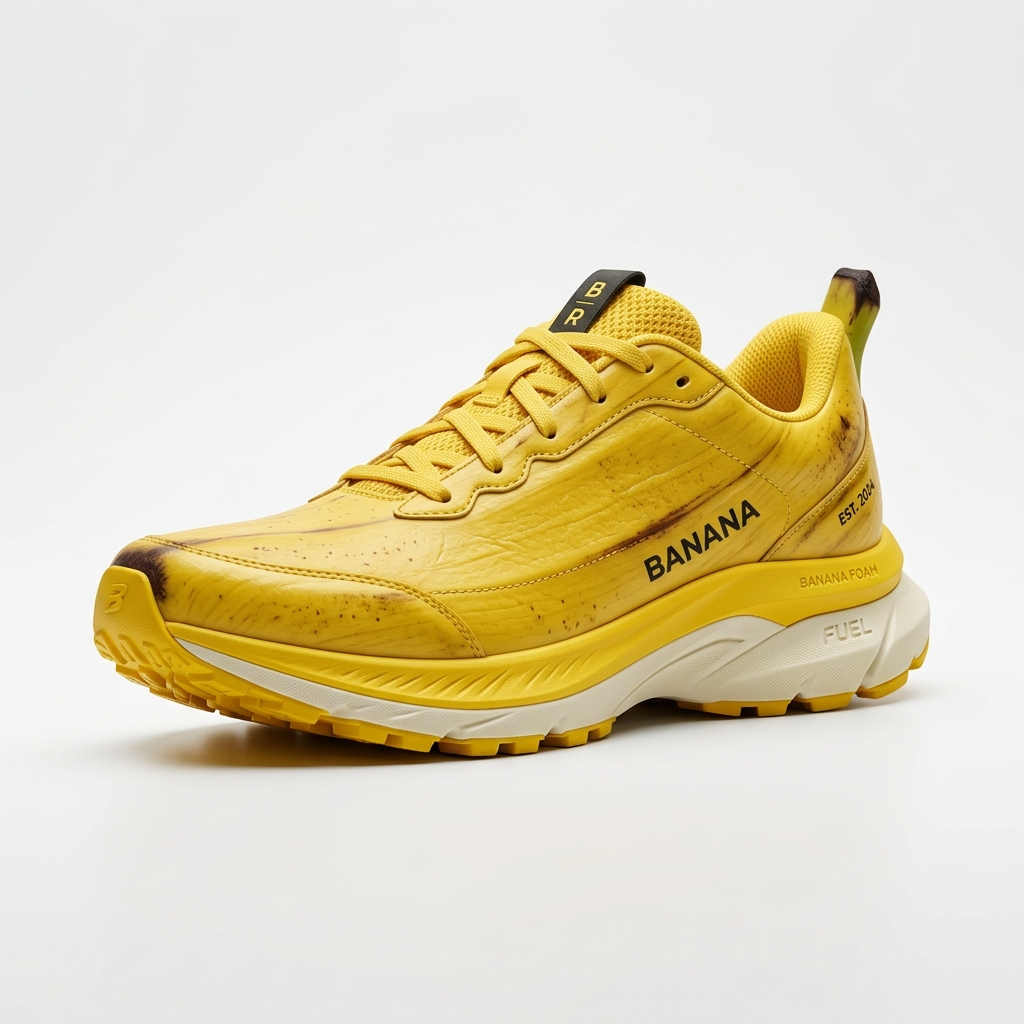
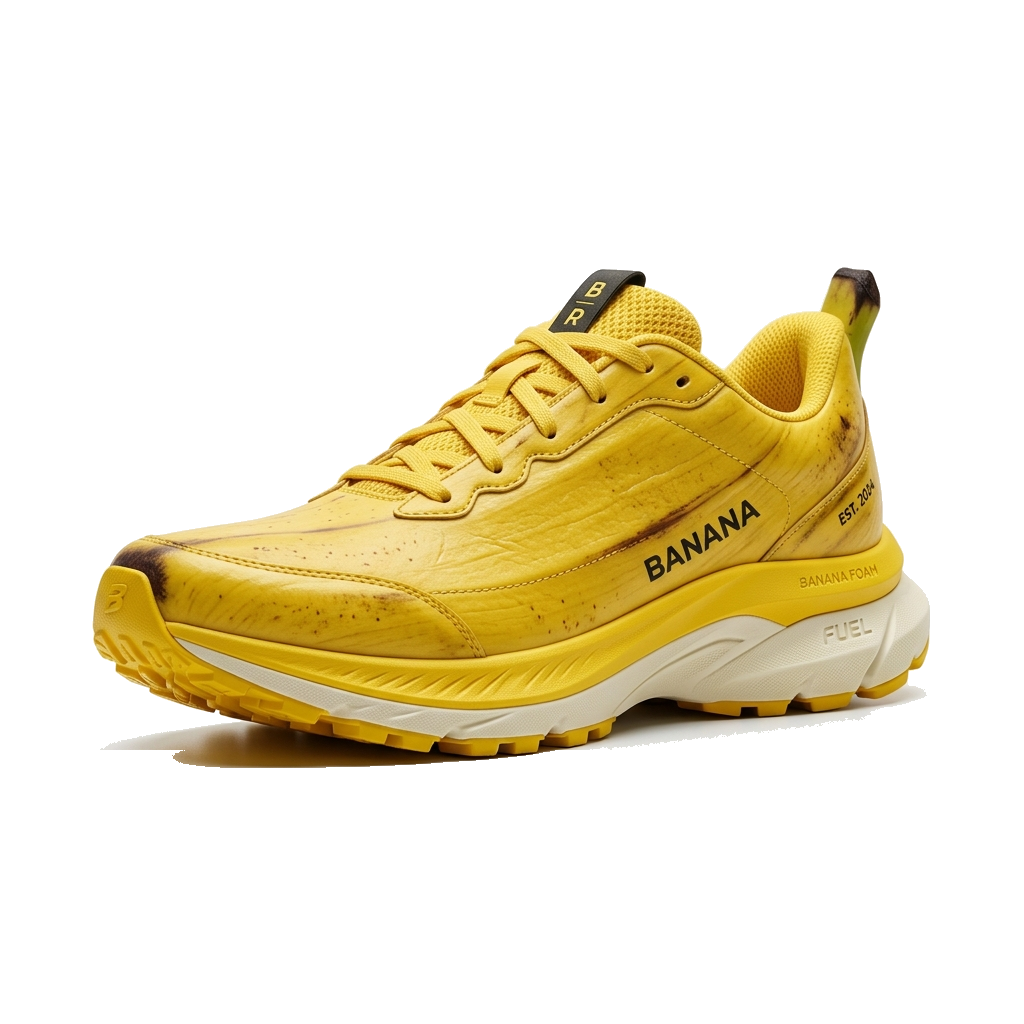
Updates

Changed region(s): [[0.0, 0.6875, 1.0, 1.0], [0.875, 0.6562, 0.9062, 0.6875]]

diff --git a/index.html b/index.html
@@ -9,8 +9,8 @@
     <link rel="preconnect" href="https://fonts.gstatic.com" crossorigin />
     <link href="https://fonts.googleapis.com/css2?family=Archivo:wght@400;500;600;700;800&family=Inter:wght@400;500;600;700&display=swap" rel="stylesheet" />
     <title>Voltrace — Built for the miles that matter</title>
-    <script type="module" crossorigin src="/voltrace/assets/index-DePheO1u.js"></script>
-    <link rel="stylesheet" crossorigin href="/voltrace/assets/index-D4g1H65Y.css">
+    <script type="module" crossorigin src="/voltrace/assets/index-I5AlJ821.js"></script>
+    <link rel="stylesheet" crossorigin href="/voltrace/assets/index-D0hyoWHk.css">
   </head>
   <body>
     <div id="root"></div>